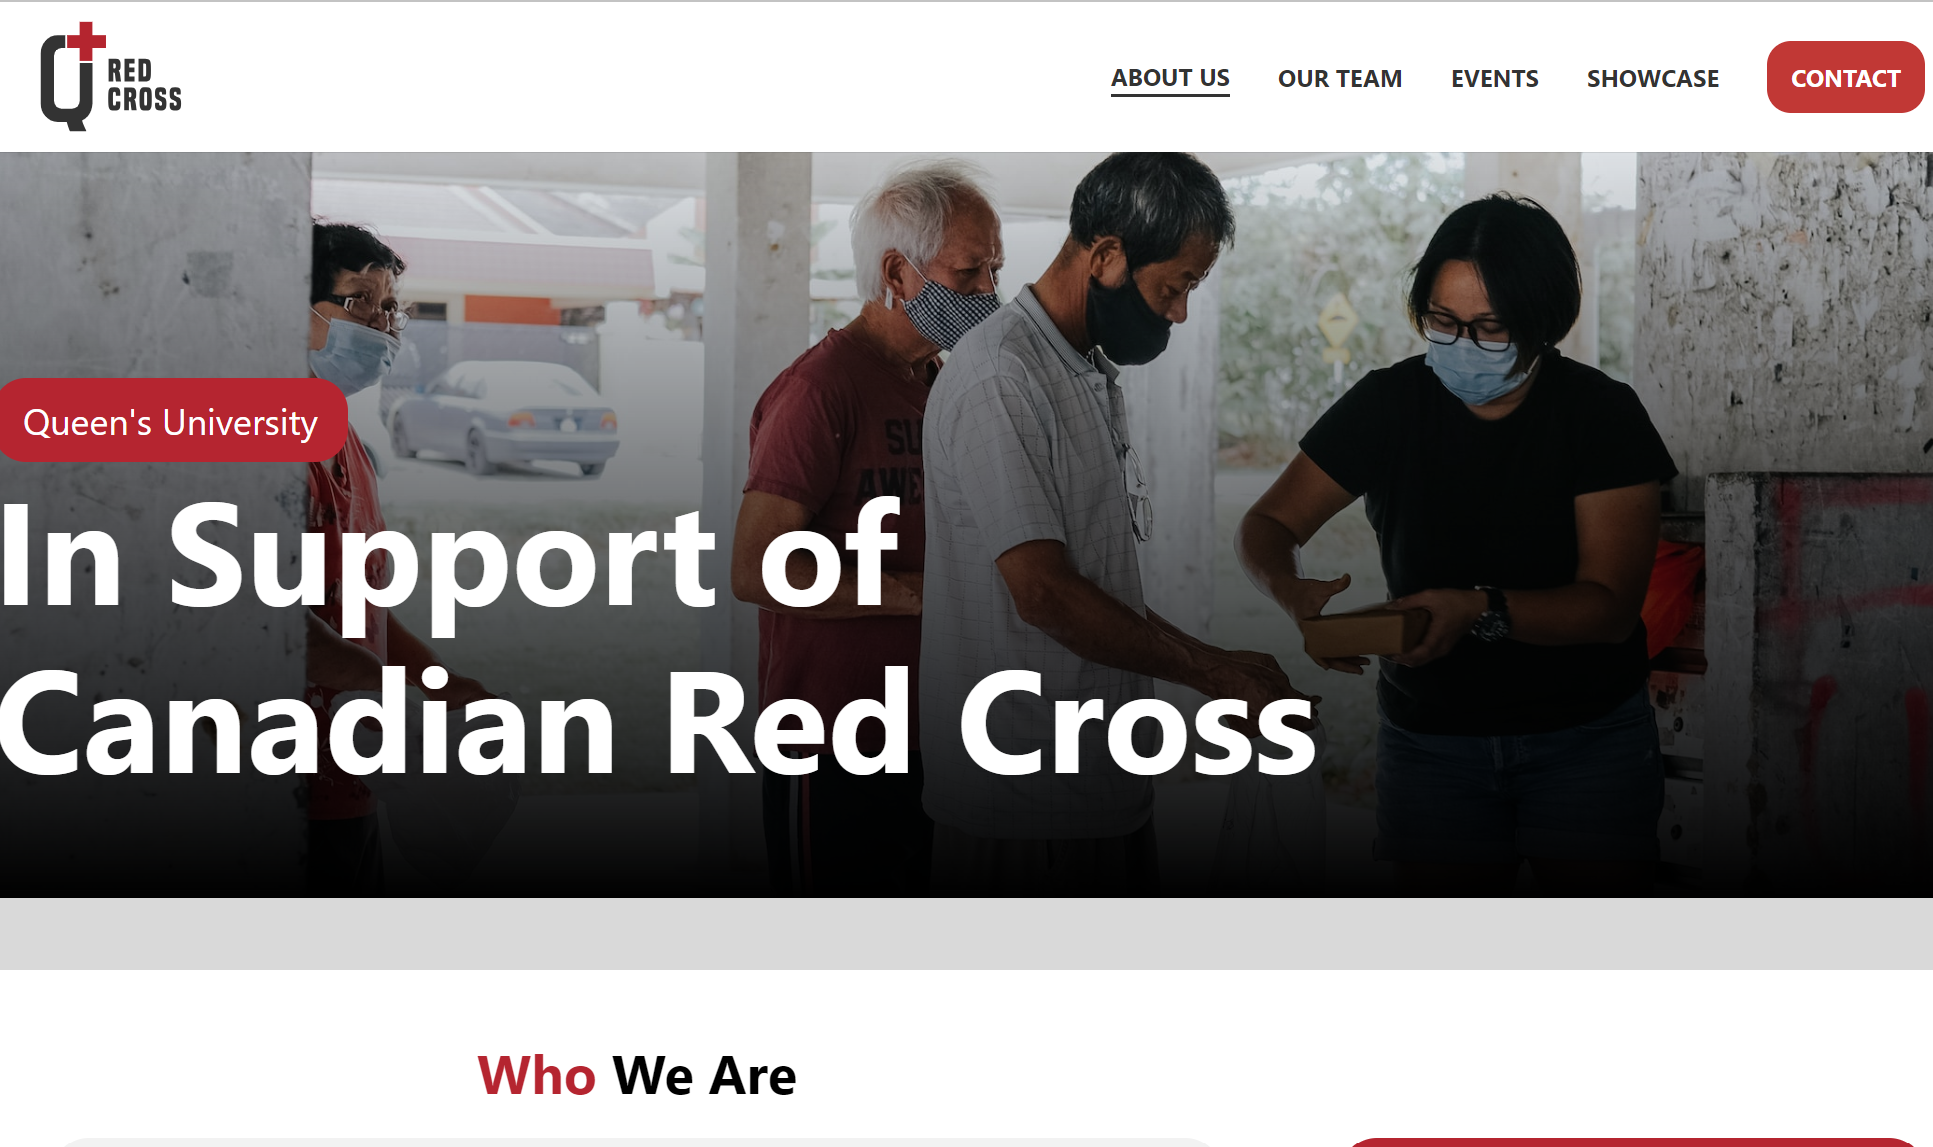
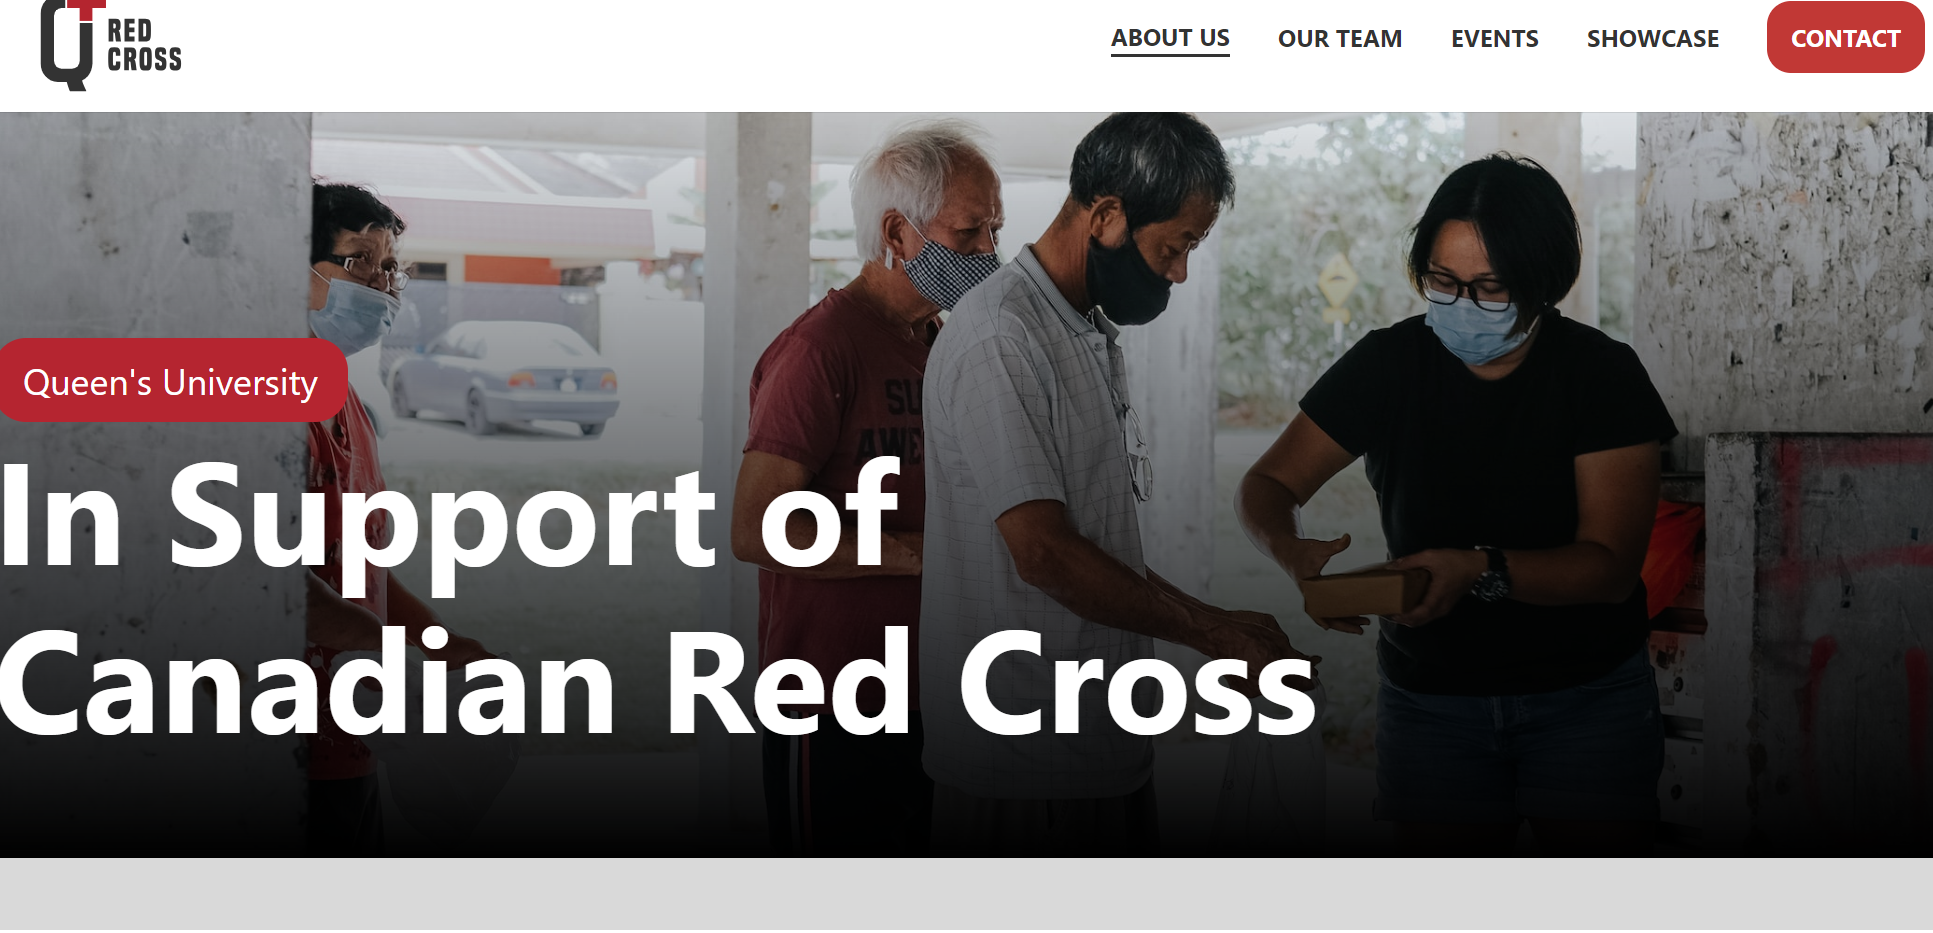
more edits

diff --git a/src/components/ProjectList.js b/src/components/ProjectList.js
@@ -30,11 +30,12 @@ export default function ProjectList(){
             fontFamily: 'Ubuntu',
             display: 'grid', // Use flex container
             gridTemplateColumns:"2fr 1fr", // Arrange child elements vertically
-            borderRadius: "40px",
-            padding: number === hoveredElem ? "3px" : "0",
-            transition: "border .6s ease, padding .6s ease, background-color .6s ease, opacity .6s ease",
+            borderRadius: number === hoveredElem ? "40px" : "0",
+            border:"0.5px solid #E1E1E1",
+            padding: "15px",
+            transition: "border .6s ease, padding .6s ease, background-color 1s ease, opacity .6s ease, border-radius 1s ease",
             alignItems: "center",
-            backgroundColor: number === hoveredElem ? "#dadada" : "",
+            backgroundColor: number === hoveredElem ? "#A7A7A7" : "",
             opacity: number !== hoveredElem && hoveredElem !== null ? "0.3" : "1",
             color: number === hoveredElem ? "#fffdfb" : "black",
         }
@@ -45,15 +46,17 @@ export default function ProjectList(){
             fontFamily: 'Ubuntu',
             display: 'grid', // Use flex container
             gridTemplateColumns:"1fr 2fr", // Arrange child elements vertically
-            borderRadius: "4px",
-            padding: number === hoveredElem ? "3px" : "0",
-            transition: "border .6s ease, padding .6s ease, background-color .6s ease, opacity .6s ease",
+            borderRadius: number === hoveredElem ? "40px" : "0",
+            padding:"15px",
+            transition: "border .6s ease, padding .6s ease, background-color 1s ease, opacity .6s ease, border-radius 1s ease",
             alignItems: "center",
-            backgroundColor: number === hoveredElem ? "#dadada" : "",
+            backgroundColor: number === hoveredElem ? "#A7A7A7" : "",
             opacity: number !== hoveredElem && hoveredElem !== null ? "0.3" : "1",
             textAlign:"right", 
             justifyContent: "right",
             color: number === hoveredElem ? "#fffdfb" : "black",
+            border:"0.5px solid #E1E1E1",
+
 
         }
       };
@@ -78,14 +81,19 @@ export default function ProjectList(){
             marginLeft: side === "rs" ? 'auto' : "",
         }
       };
+
+    const preventLinkColor = {
+        color: "inherit",
+        textDecoration: "none"
+    }
     
     return(
         <div style={gridStyle}>
             <link rel="stylesheet" href="https://fonts.googleapis.com/css?family=Ubuntu"></link>
 
             <div style={getElementStyle("1")} onMouseEnter={()=>{setHovered("1")}} onMouseLeave={()=>{setHovered(null)}}>
-                <a href="https://github.com/SaulWolkove/Google-Maps-api-social-project/tree/main" target="_blank" rel="noreferrer">
-                    <div style={{color: "inherit"}}>
+                <a href="https://github.com/SaulWolkove/Google-Maps-api-social-project/tree/main" target="_blank" rel="noreferrer" style={preventLinkColor}>
+                    <div>
                         Google Maps Travel Tracker
                         <div style={getBioStyle("ls")}>
                             Implemented Google's Mapping API service into a React framework to visualize the data, and created account tracking and user functionality by developing APIs using Mongoose to connect to MongoDB database functionality. Used React to generate interactive frontend, and packaged CSS into Tailwind.css.
@@ -93,18 +101,18 @@ export default function ProjectList(){
                     </div>
                 </a>
                 <div>
-                    <a href="https://github.com/SaulWolkove/Google-Maps-api-social-project/tree/main" target="_blank" rel="noreferrer">
+                    <a href="https://github.com/SaulWolkove/Google-Maps-api-social-project/tree/main" target="_blank" rel="noreferrer" style={preventLinkColor}>
                         <img src={gmapi} style = {getImage("1")} alt="mapsApi"/>
                     </a>
                 </div>
             </div>
             <div style={getInverseElementStyle("2")} onMouseEnter={()=>{setHovered("2")}} onMouseLeave={()=>{setHovered(null)}}> 
                 <div>
-                    <a href="https://queens-web-development-club.github.io/w23-red-cross/about" target="_blank" rel="noreferrer">
+                    <a href="https://queens-web-development-club.github.io/w23-red-cross/about" target="_blank" rel="noreferrer" style={preventLinkColor}>
                         <img src={redCross} style = {getImage("2")} alt="mapsApi"/>
                     </a>
                 </div>
-                <a href="https://queens-web-development-club.github.io/w23-red-cross/about" target="_blank" rel="noreferrer"> 
+                <a href="https://queens-web-development-club.github.io/w23-red-cross/about" target="_blank" rel="noreferrer" style={preventLinkColor}> 
                     <div style={{position:"relative"}}>
                         Queen's Red Cross Website
                         <div style={getBioStyle("rs")}>
@@ -114,7 +122,7 @@ export default function ProjectList(){
                 </a>
             </div>
             <div style={getElementStyle("3")} onMouseEnter={()=>{setHovered("3")}} onMouseLeave={()=>{setHovered(null)}}>
-                <a href="https://github.com/SaulWolkove/PythonWikiscrapingGame" target="_blank" rel="noreferrer">
+                <a href="https://github.com/SaulWolkove/PythonWikiscrapingGame" target="_blank" rel="noreferrer" style={preventLinkColor}>
                     <div>
                         Python Web Scraping Game 
                         <div style={getBioStyle("ls")}>
@@ -123,18 +131,18 @@ export default function ProjectList(){
                     </div>
                 </a>
                 <div>
-                    <a href="https://github.com/SaulWolkove/PythonWikiscrapingGame" target="_blank" rel="noreferrer">
+                    <a href="https://github.com/SaulWolkove/PythonWikiscrapingGame" target="_blank" rel="noreferrer" style={preventLinkColor}>
                         <img src={scrape} style = {getImage("3")} alt="python scraper"/>
                     </a>
                 </div>
             </div>
             <div style={{...getInverseElementStyle("4"), textAlign:"right", justifyContent: "right"}} onMouseEnter={()=>{setHovered("4")}} onMouseLeave={()=>{setHovered(null)}}>
                 <div>
-                    <a href="https://github.com/SaulWolkove/diskjstraCalculatorExample" target="_blank" rel="noreferrer">
+                    <a href="https://github.com/SaulWolkove/diskjstraCalculatorExample" target="_blank" rel="noreferrer" style={preventLinkColor}>
                         <img src={DijkStra} style = {getImage("4")} alt="dijkstra"/>
                     </a>
                 </div>
-                <a href="https://github.com/SaulWolkove/diskjstraCalculatorExample" target="_blank" rel="noreferrer">
+                <a href="https://github.com/SaulWolkove/diskjstraCalculatorExample" target="_blank" rel="noreferrer" style={preventLinkColor}>
                     <div style={{position:"relative"}}>
                         DijkStra's Algorithm Computer
                         <div style={getBioStyle("rs")}>

diff --git a/src/components/Banner.js b/src/components/Banner.js
@@ -51,7 +51,9 @@ export default function Banner() {
       paddingRight: "20px",
       backgroundColor: "#f0f0f0",
       position: isHovered === buttonName ? "absolute" : "relative",
-      fontFamily:"Tektur"
+      fontFamily:"Oxanium",
+      paddingTop:"10px"
+
     }
   }
 
@@ -115,6 +117,7 @@ export default function Banner() {
   return (
     <div style={bannerStyle()}>
       <link rel="stylesheet" href="https://fonts.googleapis.com/css?family=Tektur"></link>
+      <link rel="stylesheet" href="https://fonts.googleapis.com/css?family=Oxanium"></link>
 
       <div style={{display:"flex",justifyContent:"flex-start",alignItems:"center",marginLeft:"10px"}}>
         <a href="https://github.com/SaulWolkove" target="_blank" rel="noreferrer">

diff --git a/src/App.js b/src/App.js
@@ -5,7 +5,7 @@ import About from "./components/About";
 import Experience from "./components/Experience";
 import Projects from "./components/Projects";
 import Contact from "./components/Contact";
-
+import style from "./index.css"
 
 
 function App() {

diff --git a/src/components/About.js b/src/components/About.js
@@ -11,7 +11,7 @@ const parentStyle = {
   gridColumnGap: 'px',
   gridRowGap: '10px',
   width: '100%',
-  height: 'calc(100vh - 58.67px)',
+  height: 'calc(100vh - 43.99px)',
   backgroundColor: '#f0f0f0',
 };
 

diff --git a/src/components/Experience.js b/src/components/Experience.js
@@ -1,7 +1,7 @@
 
 const parentStyle = {
     backgroundColor: '#f0f0f0',
-    height: 'calc(100vh - 58.67px)',
+    height: 'calc(100vh - 43.99px)',
     overflowY: 'scroll',
     fontFamily: 'Kanit',
   };

diff --git a/src/index.css b/src/index.css
@@ -1,3 +1,7 @@
 @tailwind base;
 @tailwind components;
 @tailwind utilities;
+
+body{
+    margin:0;
+}
